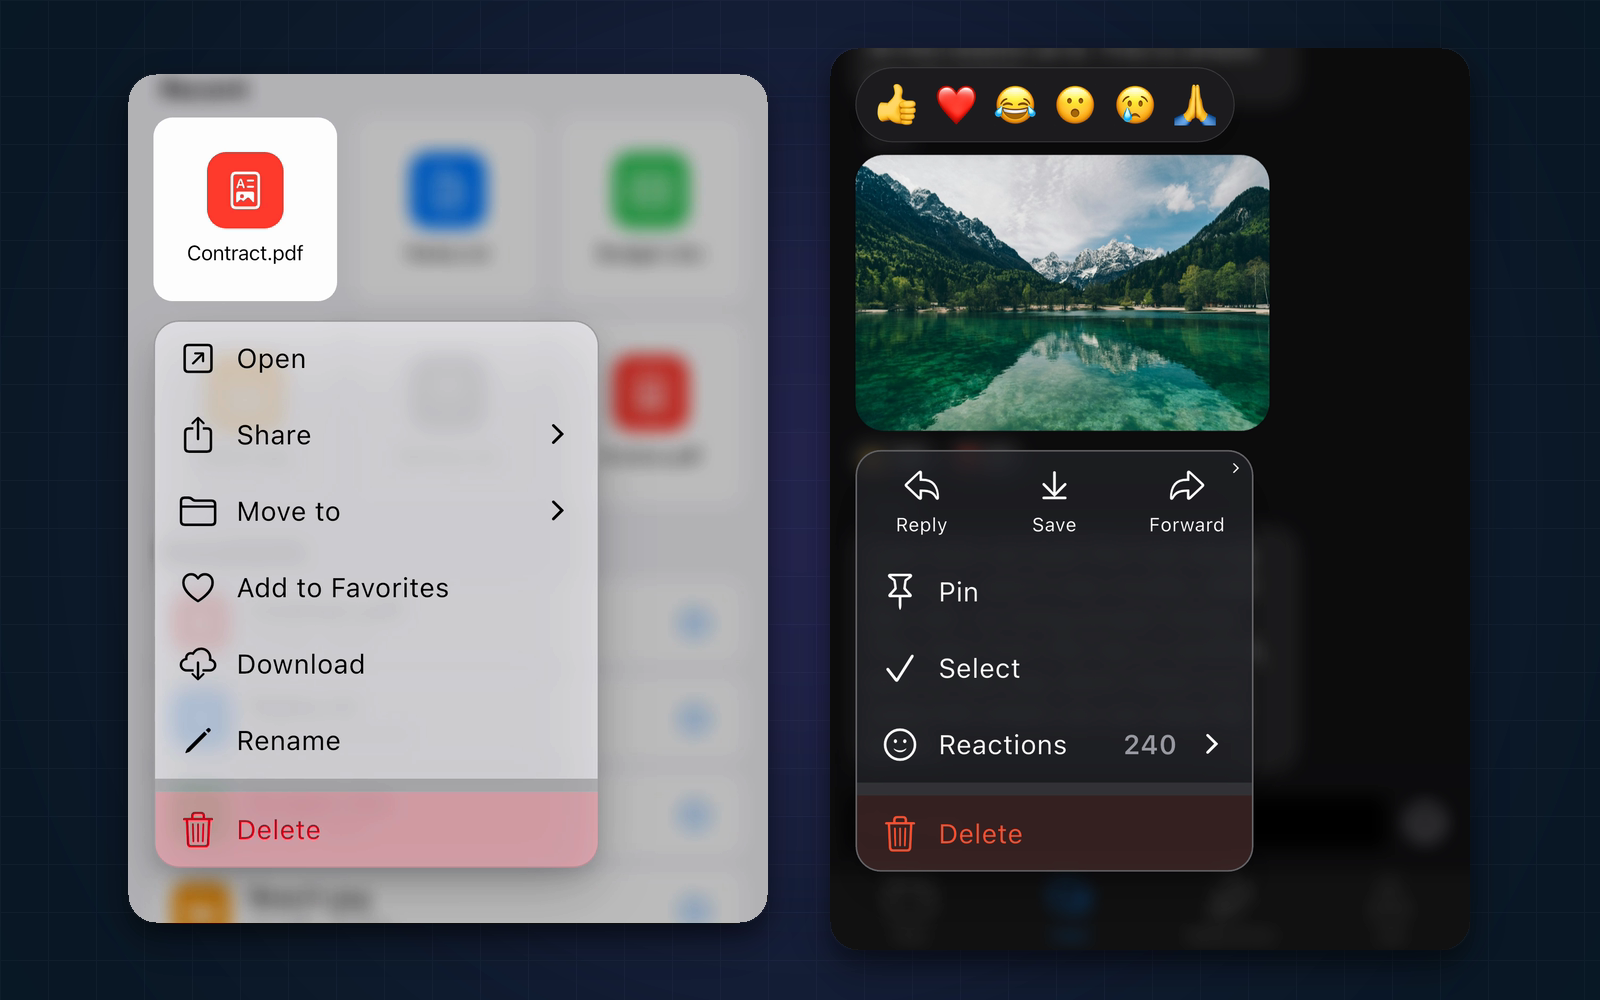
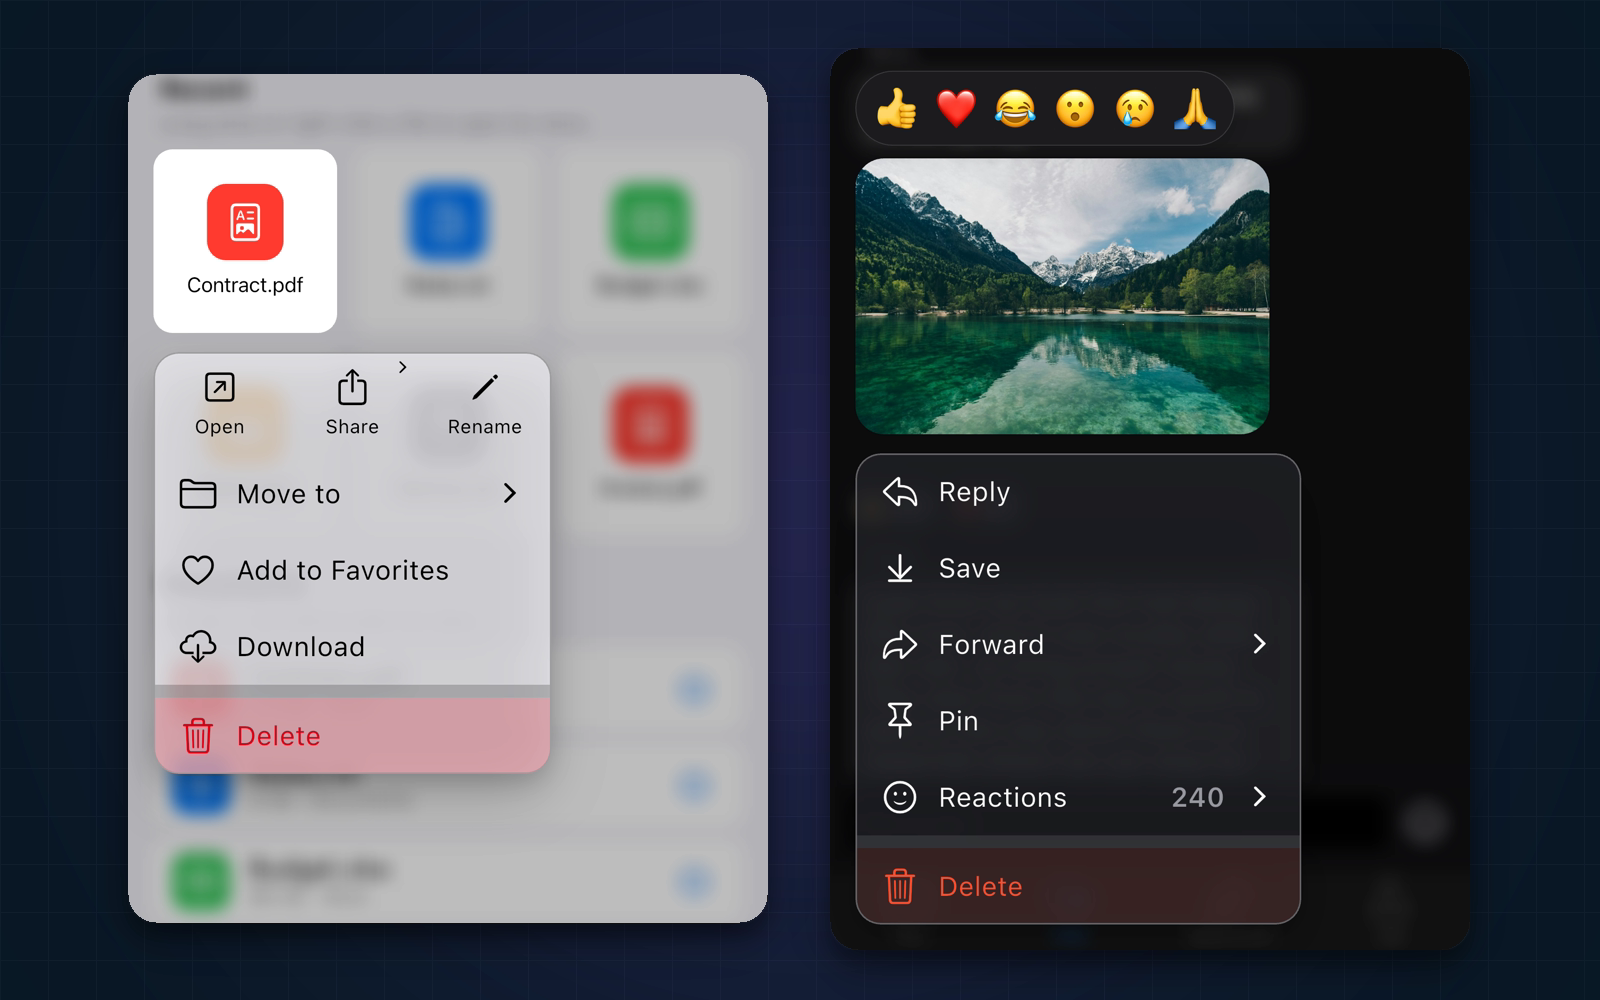
Rebuild the header GIF and the pub.dev cover with the row in the file menu and a plain chat menu

diff --git a/README.ru.md b/README.ru.md
@@ -12,7 +12,7 @@
 Правый клик на компьютере, долгое нажатие на телефоне, тап по вашей кнопке — и один виджет даёт Flutter-приложению контекстное меню, которое выглядит и двигается как в iOS. В пункты и над превью можно положить свои виджеты (например, панель реакций), без сторонних зависимостей у пакета. Собирайте меню как удобно: простой список пунктов, компактный ряд самых частых действий или сложная смесь рядов, динамических подменю и живых пунктов. Стиль iOS не по душе? Сделайте свой: меняйте цвета, формы, размытие, пункты и не только, а приятные анимации останутся.
 Нужен Flutter 3.32 или новее (Dart 3.8). **[Начать →](#начало-работы)**
 
-<img src="doc/gifs/open_and_select_themes.gif" width="600" alt="В светлой теме открывается меню файла, в тёмной — меню сообщения с панелью реакций; палец проводит по пунктам обоих меню, в меню сообщения — от ряда вниз по списку">
+<img src="doc/gifs/open_and_select_themes.gif" width="600" alt="В светлой теме открывается меню файла, в тёмной — меню сообщения с панелью реакций; палец проводит по пунктам обоих меню, в меню файла — от ряда вниз по списку">
 
 <img src="doc/gifs/wide_row.gif" width="600" alt="Меню из одного ряда семи инструментов, левая половина в светлой теме, правая в тёмной; Shapes открывает подменю из одного ряда фигур, а Back возвращает к инструментам">
 

diff --git a/README.md b/README.md
@@ -12,7 +12,7 @@
 Right click on your desktop, long press on your phone, tap on your button: a single widget provides your Flutter app with a context menu that is styled and animated like the one in iOS. It takes your own widgets as menu items and above the preview (e.g. a reactions bar), and it has no third-party dependencies. You can build it in many ways: a simple list of items, a compact row of the most used actions, or a complex mix of rows, dynamic submenus and live items. Not into the iOS design? Make your own: customize colors, shapes, blur, items and more, and keep the sweet animations.
 Requires Flutter 3.32 or later (Dart 3.8). **[Get started →](#getting-started)**
 
-<img src="doc/gifs/open_and_select_themes.gif" width="600" alt="File and chat menus open in light and dark themes; a finger drags across their items, from the row of the chat menu down its list, with a reactions bar above the chat message">
+<img src="doc/gifs/open_and_select_themes.gif" width="600" alt="File and chat menus open in light and dark themes; a finger drags across their items, from the row of the file menu down its list, and down the chat menu under a reactions bar">
 
 <img src="doc/gifs/wide_row.gif" width="600" alt="A menu of one row of seven tools, its left half in the light theme and its right half in the dark theme; Shapes opens a submenu of one row of shapes, and Back returns to the tools">
 
